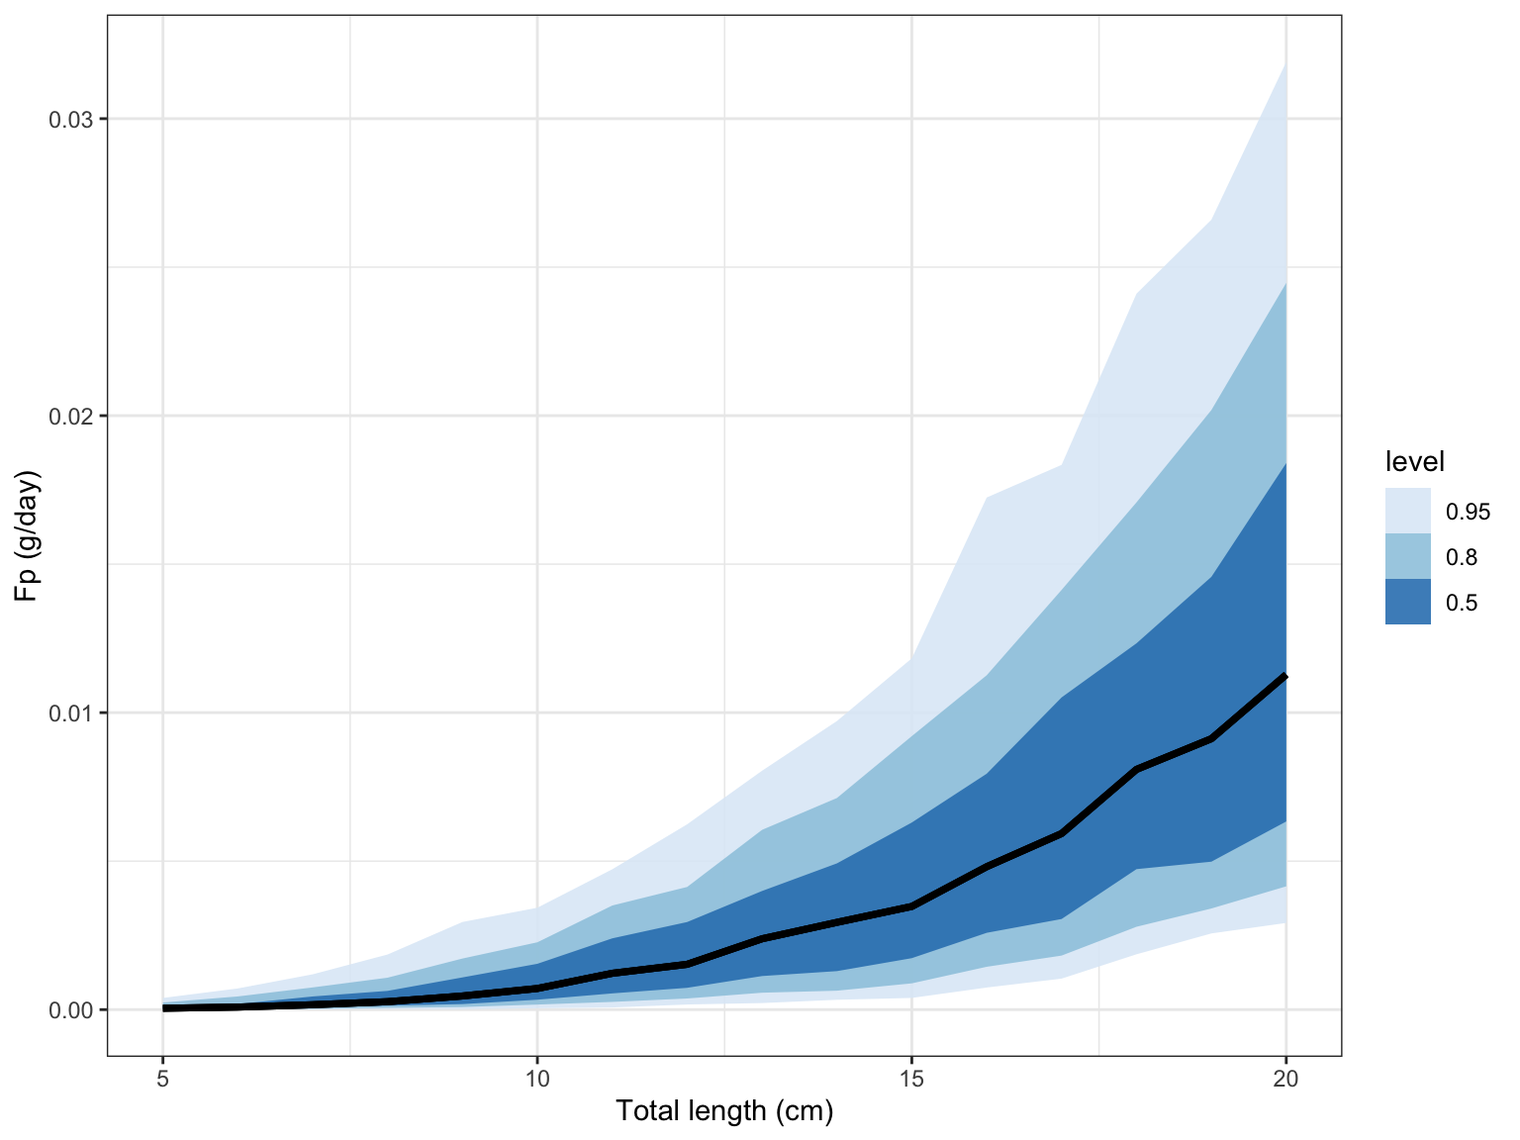
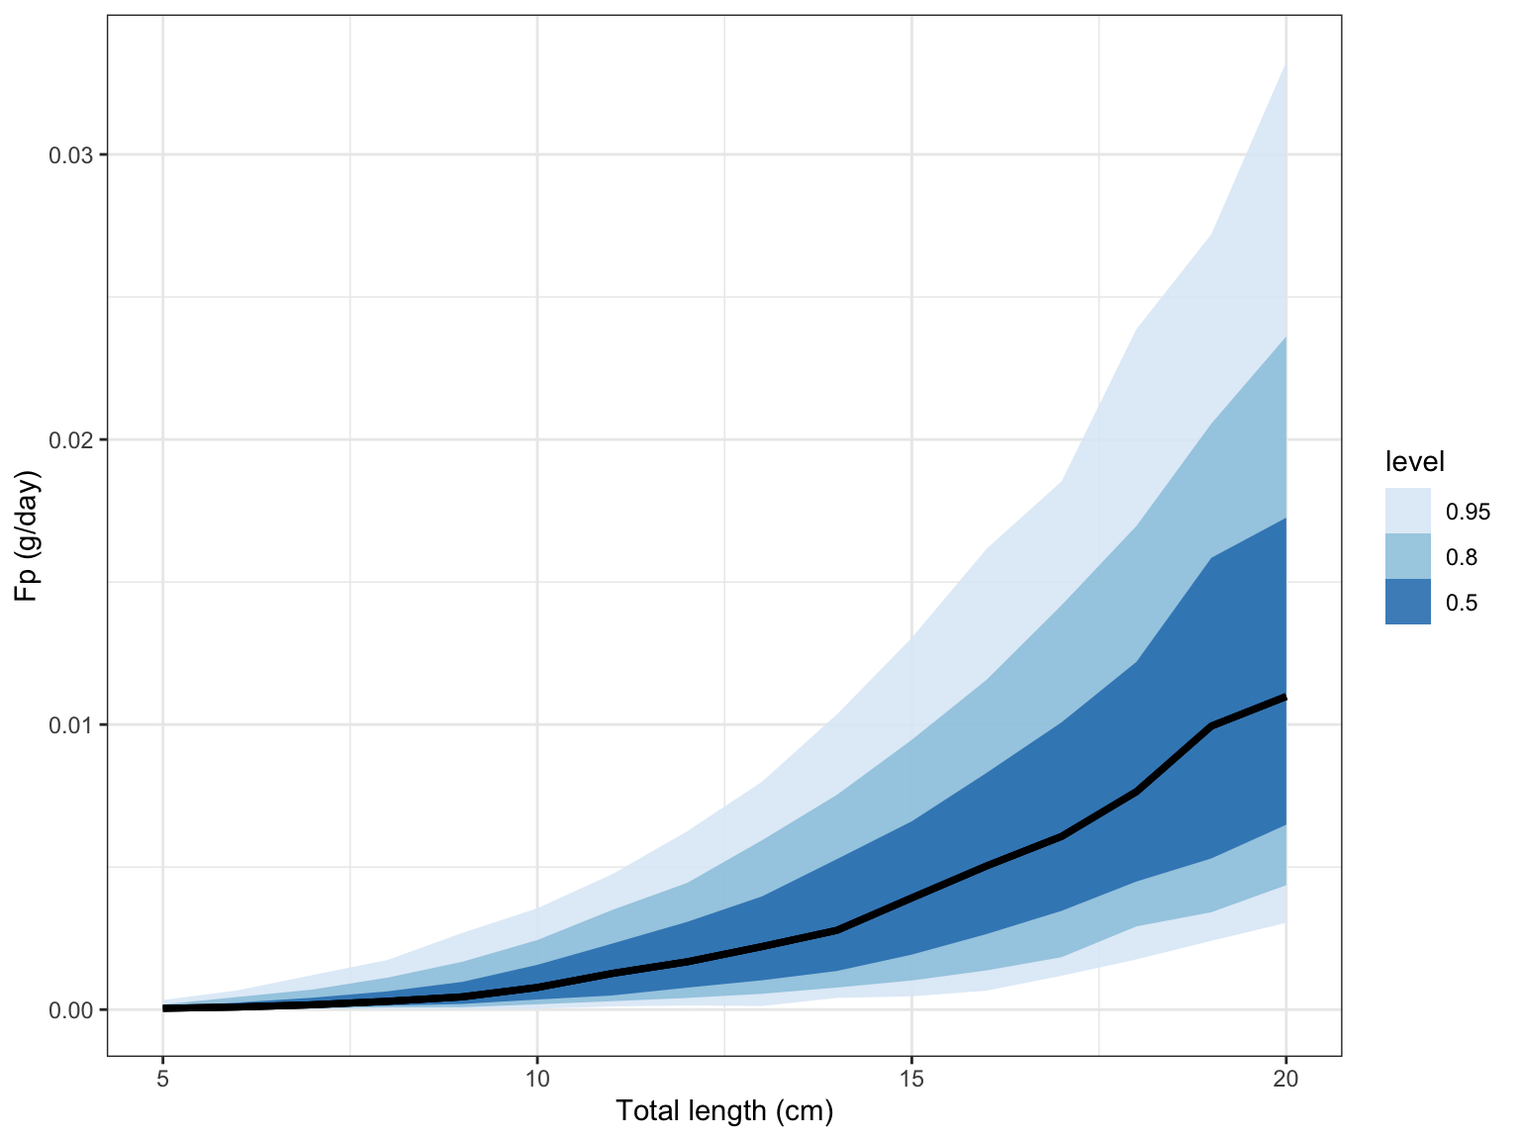
Built site for fishflux: 0.0.1@99f87f8

diff --git a/articles/intro_to_fishflux.html b/articles/intro_to_fishflux.html
@@ -82,7 +82,7 @@
       <h1 data-toc-skip>Intro to fishflux</h1>
                         <h4 class="author">Nina M. D. Schiettekatte</h4>
             
-            <h4 class="date">2020-07-02</h4>
+            <h4 class="date">2020-07-07</h4>
       
       <small class="dont-index">Source: <a href="https://github.com/nschiett/fishflux/blob/master/vignettes/intro_to_fishflux.Rmd"><code>vignettes/intro_to_fishflux.Rmd</code></a></small>
       <div class="hidden name"><code>intro_to_fishflux.Rmd</code></div>
@@ -411,7 +411,7 @@ Elemental stoichiometry of diet
 <span class="co">#&gt;            species    t0 Linf     k     asp troph   lwa_m      lwa_sd lwb_m</span>
 <span class="co">#&gt; 1 Zebrasoma scopas -0.49 13.3 0.425 2.02091     2 0.02455 0.002627551  2.98</span>
 <span class="co">#&gt;      lwb_sd     mdw_m        f0_m        f0_sd alpha_m   alpha_sd</span>
-<span class="co">#&gt; 1 0.0255102 0.2504833 0.001517989 3.125136e-10    0.77 0.05286288</span>
+<span class="co">#&gt; 1 0.0255102 0.2504833 0.001517989 3.154071e-10    0.77 0.05286288</span>
 </pre></div>
 
 <p>All other parameters have to be provided by the user. For more information on how to acquire these parameters, take a look at (“this paper” add reference to methods paper).</p>
@@ -432,56 +432,56 @@ Elemental stoichiometry of diet
 <div class="sourceCode" id="cb10"><pre class="downlit">
 <span class="kw">fishflux</span>::<span class="fu"><a href="../reference/extract.html">extract</a></span>(<span class="kw">model</span>, <span class="fu"><a href="https://rdrr.io/r/base/c.html">c</a></span>(<span class="st">"Fn"</span>,<span class="st">"Fp"</span>))
 <span class="co">#&gt;    TL      Fn_mean    Fn_median        Fn_sd      Fn_2.5%    Fn_97.5%</span>
-<span class="co">#&gt; 1   5 0.0008803941 0.0008154429 0.0004449138 0.0002362938 0.001928104</span>
-<span class="co">#&gt; 2   6 0.0013199704 0.0012335351 0.0006161183 0.0003807115 0.002724463</span>
-<span class="co">#&gt; 3   7 0.0018449423 0.0017370656 0.0008620220 0.0004171794 0.003699469</span>
-<span class="co">#&gt; 4   8 0.0025414743 0.0023323361 0.0012668172 0.0005740153 0.005426086</span>
-<span class="co">#&gt; 5   9 0.0034183196 0.0030698630 0.0018294241 0.0008973018 0.008178266</span>
-<span class="co">#&gt; 6  10 0.0043463276 0.0039813049 0.0022540562 0.0011699606 0.009896119</span>
-<span class="co">#&gt; 7  11 0.0058695383 0.0051739943 0.0032853156 0.0014858725 0.013266104</span>
-<span class="co">#&gt; 8  12 0.0069841276 0.0059486534 0.0039588050 0.0019248775 0.016832595</span>
-<span class="co">#&gt; 9  13 0.0089921307 0.0080339542 0.0053947628 0.0018597769 0.022002220</span>
-<span class="co">#&gt; 10 14 0.0105798396 0.0094173214 0.0065514820 0.0021466710 0.026591551</span>
-<span class="co">#&gt; 11 15 0.0128946048 0.0110721731 0.0083381389 0.0023652903 0.032070108</span>
-<span class="co">#&gt; 12 16 0.0162824299 0.0137465733 0.0108540453 0.0030488685 0.045502998</span>
-<span class="co">#&gt; 13 17 0.0190504388 0.0157888763 0.0123891041 0.0037005976 0.046571205</span>
-<span class="co">#&gt; 14 18 0.0239138094 0.0213167444 0.0149459460 0.0050525772 0.061161562</span>
-<span class="co">#&gt; 15 19 0.0264728723 0.0228481820 0.0168042995 0.0065175528 0.066116386</span>
-<span class="co">#&gt; 16 20 0.0326040309 0.0283285688 0.0201874095 0.0074705744 0.079979137</span>
+<span class="co">#&gt; 1   5 0.0008810507 0.0008383537 0.0004278019 0.0001964941 0.001917992</span>
+<span class="co">#&gt; 2   6 0.0012830364 0.0012060575 0.0006007507 0.0003739856 0.002583910</span>
+<span class="co">#&gt; 3   7 0.0019195307 0.0017754983 0.0009455072 0.0005068949 0.004049307</span>
+<span class="co">#&gt; 4   8 0.0025159032 0.0023862182 0.0011033275 0.0008177114 0.004969519</span>
+<span class="co">#&gt; 5   9 0.0033828648 0.0029596976 0.0017971759 0.0007815859 0.007780094</span>
+<span class="co">#&gt; 6  10 0.0044469703 0.0038992514 0.0023167333 0.0010589923 0.009640365</span>
+<span class="co">#&gt; 7  11 0.0058796912 0.0051814585 0.0032930302 0.0015632901 0.013784768</span>
+<span class="co">#&gt; 8  12 0.0072334715 0.0064432043 0.0040580394 0.0017499253 0.016836748</span>
+<span class="co">#&gt; 9  13 0.0089020571 0.0077231743 0.0055538058 0.0019677109 0.020955451</span>
+<span class="co">#&gt; 10 14 0.0111192651 0.0092248024 0.0074267722 0.0024793380 0.027511072</span>
+<span class="co">#&gt; 11 15 0.0133670092 0.0112297462 0.0085103790 0.0025824426 0.033745016</span>
+<span class="co">#&gt; 12 16 0.0165153624 0.0142665764 0.0105119143 0.0032298921 0.043021130</span>
+<span class="co">#&gt; 13 17 0.0194164821 0.0162234446 0.0126581270 0.0038241187 0.048827372</span>
+<span class="co">#&gt; 14 18 0.0232652509 0.0198614986 0.0143322113 0.0048453197 0.060293636</span>
+<span class="co">#&gt; 15 19 0.0281243134 0.0245160445 0.0176899748 0.0061426427 0.068289658</span>
+<span class="co">#&gt; 16 20 0.0324331383 0.0278599361 0.0205299943 0.0077565170 0.083181167</span>
 <span class="co">#&gt;          Fn_25%      Fn_75%      Fp_mean    Fp_median        Fp_sd      Fp_2.5%</span>
-<span class="co">#&gt; 1  0.0005703071 0.001087641 8.816759e-05 4.555498e-05 0.0001076320 3.607705e-06</span>
-<span class="co">#&gt; 2  0.0008951922 0.001694788 1.604234e-04 8.648046e-05 0.0001873181 6.708040e-06</span>
-<span class="co">#&gt; 3  0.0011915828 0.002327268 3.015256e-04 1.644553e-04 0.0003261997 7.093895e-06</span>
-<span class="co">#&gt; 4  0.0016658811 0.003265114 4.589971e-04 2.676663e-04 0.0004765009 1.657261e-05</span>
-<span class="co">#&gt; 5  0.0022019520 0.004299971 7.363535e-04 4.594471e-04 0.0007827660 1.630872e-05</span>
-<span class="co">#&gt; 6  0.0026895461 0.005546579 1.038646e-03 7.118827e-04 0.0009415668 4.576640e-05</span>
-<span class="co">#&gt; 7  0.0034032246 0.007636513 1.607817e-03 1.223361e-03 0.0013321046 7.122154e-05</span>
-<span class="co">#&gt; 8  0.0039691144 0.009284375 2.008341e-03 1.525568e-03 0.0016381442 1.727074e-04</span>
-<span class="co">#&gt; 9  0.0049625955 0.011610074 2.838324e-03 2.385585e-03 0.0021931244 2.212600e-04</span>
-<span class="co">#&gt; 10 0.0053932653 0.014142962 3.442915e-03 2.938378e-03 0.0026083558 3.312848e-04</span>
-<span class="co">#&gt; 11 0.0065144494 0.017624364 4.387929e-03 3.474148e-03 0.0033195230 3.935601e-04</span>
-<span class="co">#&gt; 12 0.0086559867 0.021021319 5.883353e-03 4.812306e-03 0.0043504422 7.437588e-04</span>
-<span class="co">#&gt; 13 0.0090553655 0.027047194 7.139870e-03 5.928960e-03 0.0049167593 1.044066e-03</span>
-<span class="co">#&gt; 14 0.0126548880 0.031436156 9.252129e-03 8.088130e-03 0.0059312007 1.863013e-03</span>
-<span class="co">#&gt; 15 0.0124745189 0.036329804 1.052843e-02 9.121515e-03 0.0066620971 2.565700e-03</span>
-<span class="co">#&gt; 16 0.0157865317 0.045517637 1.298575e-02 1.128078e-02 0.0080832347 2.919361e-03</span>
+<span class="co">#&gt; 1  0.0005642555 0.001123671 7.172762e-05 4.439146e-05 8.791074e-05 2.668983e-06</span>
+<span class="co">#&gt; 2  0.0008660571 0.001613118 1.727487e-04 9.059586e-05 1.886469e-04 6.857488e-06</span>
+<span class="co">#&gt; 3  0.0012291700 0.002434496 3.001604e-04 1.687363e-04 3.282842e-04 1.295459e-05</span>
+<span class="co">#&gt; 4  0.0016916844 0.003242008 4.616280e-04 2.909458e-04 4.632641e-04 2.016598e-05</span>
+<span class="co">#&gt; 5  0.0021458911 0.004246152 7.175899e-04 4.477097e-04 7.279988e-04 3.097337e-05</span>
+<span class="co">#&gt; 6  0.0027805824 0.005692694 1.086669e-03 7.766051e-04 9.665992e-04 3.313983e-05</span>
+<span class="co">#&gt; 7  0.0032553979 0.007851099 1.606341e-03 1.269072e-03 1.330449e-03 1.106390e-04</span>
+<span class="co">#&gt; 8  0.0042199243 0.009516558 2.113693e-03 1.676374e-03 1.670687e-03 1.433967e-04</span>
+<span class="co">#&gt; 9  0.0045028315 0.011870734 2.776208e-03 2.210849e-03 2.234105e-03 1.240622e-04</span>
+<span class="co">#&gt; 10 0.0056272406 0.015255310 3.668081e-03 2.780774e-03 2.968577e-03 4.100398e-04</span>
+<span class="co">#&gt; 11 0.0069615355 0.018312471 4.652411e-03 3.918250e-03 3.412766e-03 4.634126e-04</span>
+<span class="co">#&gt; 12 0.0080772080 0.022324057 5.971242e-03 5.041457e-03 4.209872e-03 6.650131e-04</span>
+<span class="co">#&gt; 13 0.0096857120 0.026160644 7.270224e-03 6.075065e-03 5.000063e-03 1.187246e-03</span>
+<span class="co">#&gt; 14 0.0120073577 0.031560756 8.984623e-03 7.646183e-03 5.697007e-03 1.759196e-03</span>
+<span class="co">#&gt; 15 0.0133963732 0.040239766 1.117193e-02 9.946258e-03 7.018246e-03 2.412777e-03</span>
+<span class="co">#&gt; 16 0.0163996310 0.043814491 1.291411e-02 1.098425e-02 8.229379e-03 3.044365e-03</span>
 <span class="co">#&gt;        Fp_97.5%       Fp_25%       Fp_75%</span>
-<span class="co">#&gt; 1  0.0003939547 2.219082e-05 0.0001137032</span>
-<span class="co">#&gt; 2  0.0007134503 4.765741e-05 0.0001897745</span>
-<span class="co">#&gt; 3  0.0011896808 7.200698e-05 0.0004434653</span>
-<span class="co">#&gt; 4  0.0018566461 1.330906e-04 0.0006316100</span>
-<span class="co">#&gt; 5  0.0029514489 1.861984e-04 0.0010848551</span>
-<span class="co">#&gt; 6  0.0034314644 3.336262e-04 0.0015432292</span>
-<span class="co">#&gt; 7  0.0047255225 5.464691e-04 0.0024002402</span>
-<span class="co">#&gt; 8  0.0062410931 7.343508e-04 0.0029498554</span>
-<span class="co">#&gt; 9  0.0080437611 1.130614e-03 0.0039947212</span>
-<span class="co">#&gt; 10 0.0097174187 1.296312e-03 0.0049245963</span>
-<span class="co">#&gt; 11 0.0118288275 1.733139e-03 0.0063008664</span>
-<span class="co">#&gt; 12 0.0172436552 2.586976e-03 0.0079439598</span>
-<span class="co">#&gt; 13 0.0183426063 3.051364e-03 0.0105127959</span>
-<span class="co">#&gt; 14 0.0241066634 4.730089e-03 0.0123346075</span>
-<span class="co">#&gt; 15 0.0265980052 4.981385e-03 0.0145723921</span>
-<span class="co">#&gt; 16 0.0319129437 6.335938e-03 0.0184036122</span>
+<span class="co">#&gt; 1  0.0003347439 2.032936e-05 7.728046e-05</span>
+<span class="co">#&gt; 2  0.0006771236 4.739314e-05 2.488869e-04</span>
+<span class="co">#&gt; 3  0.0012126912 7.789320e-05 4.175550e-04</span>
+<span class="co">#&gt; 4  0.0017424751 1.381624e-04 6.407400e-04</span>
+<span class="co">#&gt; 5  0.0026913271 1.983251e-04 9.732491e-04</span>
+<span class="co">#&gt; 6  0.0035546108 3.530646e-04 1.571248e-03</span>
+<span class="co">#&gt; 7  0.0047514446 4.960234e-04 2.315897e-03</span>
+<span class="co">#&gt; 8  0.0062543626 7.698095e-04 3.076864e-03</span>
+<span class="co">#&gt; 9  0.0079969308 1.028399e-03 3.971528e-03</span>
+<span class="co">#&gt; 10 0.0103582725 1.354814e-03 5.278849e-03</span>
+<span class="co">#&gt; 11 0.0130445761 1.929184e-03 6.605897e-03</span>
+<span class="co">#&gt; 12 0.0161715698 2.651520e-03 8.308092e-03</span>
+<span class="co">#&gt; 13 0.0185333467 3.464205e-03 1.007858e-02</span>
+<span class="co">#&gt; 14 0.0238744857 4.493714e-03 1.220061e-02</span>
+<span class="co">#&gt; 15 0.0272030347 5.302815e-03 1.584858e-02</span>
+<span class="co">#&gt; 16 0.0332477288 6.486093e-03 1.725715e-02</span>
 </pre></div>
 
 </div>
@@ -503,46 +503,46 @@ Elemental stoichiometry of diet
 #&gt; 6  10        c    0.000
 #&gt; 7  11        c    0.000
 #&gt; 8  12        c    0.000
-#&gt; 9  13        c    0.000
-#&gt; 10 14        c    0.006
-#&gt; 11 15        c    0.018
-#&gt; 12 16        c    0.038
-#&gt; 13 17        c    0.064
-#&gt; 14 18        c    0.108
-#&gt; 15 19        c    0.192
-#&gt; 16 20        c    0.168
-#&gt; 17  5        n    0.382
-#&gt; 18  6        n    0.404
-#&gt; 19  7        n    0.506
-#&gt; 20  8        n    0.544
-#&gt; 21  9        n    0.612
-#&gt; 22 10        n    0.666
-#&gt; 23 11        n    0.762
-#&gt; 24 12        n    0.744
-#&gt; 25 13        n    0.820
-#&gt; 26 14        n    0.824
-#&gt; 27 15        n    0.842
-#&gt; 28 16        n    0.844
-#&gt; 29 17        n    0.870
-#&gt; 30 18        n    0.858
-#&gt; 31 19        n    0.782
-#&gt; 32 20        n    0.818
-#&gt; 33  5        p    0.618
-#&gt; 34  6        p    0.596
-#&gt; 35  7        p    0.494
-#&gt; 36  8        p    0.456
-#&gt; 37  9        p    0.388
-#&gt; 38 10        p    0.334
-#&gt; 39 11        p    0.238
-#&gt; 40 12        p    0.256
-#&gt; 41 13        p    0.180
-#&gt; 42 14        p    0.170
-#&gt; 43 15        p    0.140
-#&gt; 44 16        p    0.118
-#&gt; 45 17        p    0.066
-#&gt; 46 18        p    0.034
-#&gt; 47 19        p    0.026
-#&gt; 48 20        p    0.014
+#&gt; 9  13        c    0.004
+#&gt; 10 14        c    0.008
+#&gt; 11 15        c    0.020
+#&gt; 12 16        c    0.048
+#&gt; 13 17        c    0.060
+#&gt; 14 18        c    0.138
+#&gt; 15 19        c    0.170
+#&gt; 16 20        c    0.144
+#&gt; 17  5        n    0.294
+#&gt; 18  6        n    0.434
+#&gt; 19  7        n    0.518
+#&gt; 20  8        n    0.574
+#&gt; 21  9        n    0.610
+#&gt; 22 10        n    0.674
+#&gt; 23 11        n    0.742
+#&gt; 24 12        n    0.768
+#&gt; 25 13        n    0.790
+#&gt; 26 14        n    0.840
+#&gt; 27 15        n    0.858
+#&gt; 28 16        n    0.852
+#&gt; 29 17        n    0.860
+#&gt; 30 18        n    0.822
+#&gt; 31 19        n    0.814
+#&gt; 32 20        n    0.834
+#&gt; 33  5        p    0.706
+#&gt; 34  6        p    0.566
+#&gt; 35  7        p    0.482
+#&gt; 36  8        p    0.426
+#&gt; 37  9        p    0.390
+#&gt; 38 10        p    0.326
+#&gt; 39 11        p    0.258
+#&gt; 40 12        p    0.232
+#&gt; 41 13        p    0.206
+#&gt; 42 14        p    0.152
+#&gt; 43 15        p    0.122
+#&gt; 44 16        p    0.100
+#&gt; 45 17        p    0.080
+#&gt; 46 18        p    0.040
+#&gt; 47 19        p    0.016
+#&gt; 48 20        p    0.022
 ## Plot one variable:
 fishflux::plot_cnp(model,  y = "Fp", x = "tl", probs = c(0.5, 0.8, 0.95))</a></code></pre>
 <p><img src="intro_to_fishflux_files/figure-html/unnamed-chunk-9-2.png" width="768"></p>
@@ -562,11 +562,11 @@ fishflux::plot_cnp(model,  y = "Fp", x = "tl", probs = c(0.5, 0.8, 0.95))</a></c
 </pre></div>
 <p><img src="intro_to_fishflux_files/figure-html/unnamed-chunk-10-1.png" width="768"></p>
 <pre><code>#&gt;              Fn_CI        Fp_CI        Ic_CI
-#&gt; Dn_sd 1.994026e-10 0.0002669242 9.533006e-03
-#&gt; Dp_sd 1.887067e-10 0.0007259345 1.969552e-09
-#&gt; Qn_sd 2.058517e-03 0.0008033742 2.869193e-02
-#&gt; Qp_sd 2.011834e-10 0.0007504687 2.066660e-09
-#&gt; k_sd  1.938077e-10 0.0001044015 1.003861e-02</code></pre>
+#&gt; Dn_sd 2.079249e-10 0.0002561611 9.148610e-03
+#&gt; Dp_sd 1.909236e-10 0.0007355940 2.007301e-09
+#&gt; Qn_sd 1.890131e-03 0.0007376584 2.634494e-02
+#&gt; Qp_sd 1.969455e-10 0.0007674562 2.077604e-09
+#&gt; k_sd  2.005135e-10 0.0001123156 1.079958e-02</code></pre>
 
 </div>
 </div>

diff --git a/reference/extract.html b/reference/extract.html
@@ -174,24 +174,24 @@
     <h2 class="hasAnchor" id="examples"><a class="anchor" href="#examples"></a>Examples</h2>
     <pre class="examples"><div class='input'><span class='kw'>model</span> <span class='op'>&lt;-</span> <span class='fu'><a href='https://rdrr.io/pkg/fishflux/man/cnp_model_mcmc.html'>cnp_model_mcmc</a></span>(TL = <span class='fl'>5</span><span class='op'>:</span><span class='fl'>10</span>, param = <span class='fu'><a href='https://rdrr.io/r/base/list.html'>list</a></span>(Qc_m = <span class='fl'>40</span>, Qn_m = <span class='fl'>10</span>, Qp_m = <span class='fl'>4</span>))
 <span class='fu'><a href='https://rdrr.io/pkg/fishflux/man/extract.html'>extract</a></span>(<span class='kw'>model</span>, <span class='fu'><a href='https://rdrr.io/r/base/c.html'>c</a></span>(<span class='st'>"Fn"</span>,<span class='st'>"Fp"</span>))</div><div class='output co'>#&gt;   TL      Fn_mean    Fn_median        Fn_sd      Fn_2.5%     Fn_97.5%
-#&gt; 1  5 0.0006047886 0.0006047886 6.221374e-12 0.0006047886 0.0006047886
-#&gt; 2  6 0.0010610097 0.0010610097 1.033139e-11 0.0010610097 0.0010610097
-#&gt; 3  7 0.0017065393 0.0017065393 1.780783e-11 0.0017065393 0.0017065394
-#&gt; 4  8 0.0025757605 0.0025757605 2.515936e-11 0.0025757604 0.0025757605
-#&gt; 5  9 0.0037034689 0.0037034689 3.764860e-11 0.0037034688 0.0037034690
-#&gt; 6 10 0.0051248251 0.0051248251 5.211551e-11 0.0051248250 0.0051248252
+#&gt; 1  5 0.0006047886 0.0006047886 5.791698e-12 0.0006047886 0.0006047886
+#&gt; 2  6 0.0010610097 0.0010610097 9.745592e-12 0.0010610097 0.0010610097
+#&gt; 3  7 0.0017065393 0.0017065393 1.776432e-11 0.0017065393 0.0017065394
+#&gt; 4  8 0.0025757605 0.0025757605 2.533551e-11 0.0025757604 0.0025757605
+#&gt; 5  9 0.0037034689 0.0037034689 3.697731e-11 0.0037034688 0.0037034690
+#&gt; 6 10 0.0051248251 0.0051248251 5.046471e-11 0.0051248250 0.0051248252
 #&gt;         Fn_25%       Fn_75%      Fp_mean    Fp_median        Fp_sd      Fp_2.5%
-#&gt; 1 0.0006047886 0.0006047886 0.0001097965 0.0001097965 1.810663e-12 0.0001097965
-#&gt; 2 0.0010610097 0.0010610097 0.0002186548 0.0002186548 3.005473e-12 0.0002186548
-#&gt; 3 0.0017065393 0.0017065394 0.0003815567 0.0003815567 5.210992e-12 0.0003815567
-#&gt; 4 0.0025757605 0.0025757605 0.0006096826 0.0006096826 7.341133e-12 0.0006096826
-#&gt; 5 0.0037034689 0.0037034689 0.0009143614 0.0009143614 1.099018e-11 0.0009143614
-#&gt; 6 0.0051248250 0.0051248251 0.0013070515 0.0013070515 1.520202e-11 0.0013070515
+#&gt; 1 0.0006047886 0.0006047886 0.0001097965 0.0001097965 1.687292e-12 0.0001097965
+#&gt; 2 0.0010610097 0.0010610097 0.0002186548 0.0002186548 2.832009e-12 0.0002186548
+#&gt; 3 0.0017065393 0.0017065394 0.0003815567 0.0003815567 5.164180e-12 0.0003815567
+#&gt; 4 0.0025757605 0.0025757605 0.0006096826 0.0006096826 7.384846e-12 0.0006096826
+#&gt; 5 0.0037034689 0.0037034689 0.0009143614 0.0009143614 1.077842e-11 0.0009143614
+#&gt; 6 0.0051248250 0.0051248251 0.0013070515 0.0013070515 1.472806e-11 0.0013070515
 #&gt;       Fp_97.5%       Fp_25%       Fp_75%
 #&gt; 1 0.0001097965 0.0001097965 0.0001097965
 #&gt; 2 0.0002186548 0.0002186548 0.0002186548
 #&gt; 3 0.0003815567 0.0003815567 0.0003815567
-#&gt; 4 0.0006096826 0.0006096826 0.0006096826
+#&gt; 4 0.0006096827 0.0006096826 0.0006096826
 #&gt; 5 0.0009143614 0.0009143614 0.0009143614
 #&gt; 6 0.0013070515 0.0013070515 0.0013070515</div><div class='input'></div></pre>
   </div>

diff --git a/reference/sensitivity.html b/reference/sensitivity.html
@@ -176,9 +176,9 @@ Plots a heatplot with width of the 95<!-- %CI of output predictions. --></p>
     <pre class="examples"><div class='input'><span class='fu'><a href='https://rdrr.io/r/base/library.html'>library</a></span>(<span class='kw'><a href='https://nschiett.github.io/fishflux'>fishflux</a></span>)
 <span class='fu'><a href='https://rdrr.io/pkg/fishflux/man/sensitivity.html'>sensitivity</a></span>(TL = <span class='fl'>10</span>, param = <span class='fu'><a href='https://rdrr.io/r/base/list.html'>list</a></span>(k_sd = <span class='fl'>0.2</span>, Dn_sd = <span class='fl'>0.2</span>, Dc_sd = <span class='fl'>0.1</span>),
             par = <span class='fu'><a href='https://rdrr.io/r/base/c.html'>c</a></span>(<span class='st'>"k_sd"</span>,<span class='st'>"Dn_sd"</span>,<span class='st'>"Dc_sd"</span>), out = <span class='fu'><a href='https://rdrr.io/r/base/c.html'>c</a></span>(<span class='st'>"Ic"</span>, <span class='st'>"In"</span>, <span class='st'>"Ip"</span>, <span class='st'>"Gc"</span>))</div><div class='output co'>#&gt; <span class='message'>Joining, by = "key"</span></div><div class='img'><img src='sensitivity-1.png' alt='' width='700' height='433' /></div><div class='output co'>#&gt;            Ic_CI        In_CI        Ip_CI        Gc_CI
-#&gt; k_sd  0.03314402 3.977282e-03 1.325761e-03 1.272730e-02
-#&gt; Dn_sd 0.24067510 3.702395e-03 9.627004e-03 7.724544e-11
-#&gt; Dc_sd 0.01058882 2.577122e-10 8.599604e-11 6.945887e-11</div><div class='input'></div></pre>
+#&gt; k_sd  0.03160527 3.792632e-03 1.264211e-03 1.213642e-02
+#&gt; Dn_sd 0.24960071 4.850845e-03 9.984028e-03 7.496267e-11
+#&gt; Dc_sd 0.01187394 2.484316e-10 8.299491e-11 7.320712e-11</div><div class='input'></div></pre>
   </div>
   <div class="col-md-3 hidden-xs hidden-sm" id="pkgdown-sidebar">
     <nav id="toc" data-toggle="toc" class="sticky-top">

diff --git a/reference/limitation.html b/reference/limitation.html
@@ -172,8 +172,8 @@
 #&gt; Chain 1: Iteration: 1000 / 1000 [100%]  (Sampling)
 #&gt; Chain 1: 
 #&gt; Chain 1:  Elapsed Time: 0 seconds (Warm-up)
-#&gt; Chain 1:                0.013841 seconds (Sampling)
-#&gt; Chain 1:                0.013841 seconds (Total)
+#&gt; Chain 1:                0.013811 seconds (Sampling)
+#&gt; Chain 1:                0.013811 seconds (Total)
 #&gt; Chain 1: </div><div class='input'><span class='fu'><a href='https://rdrr.io/pkg/fishflux/man/limitation.html'>limitation</a></span>(<span class='kw'>mod</span>)</div><div class='output co'>#&gt; <span class='message'>geom_path: Each group consists of only one observation. Do you need to adjust</span>
 #&gt; <span class='message'>the group aesthetic?</span></div><div class='img'><img src='limitation-1.png' alt='' width='700' height='433' /></div><div class='output co'>#&gt;   tl nutrient prop_lim
 #&gt; 1  5        c    0.000

diff --git a/reference/metabolism.html b/reference/metabolism.html
@@ -186,8 +186,8 @@ which also includes trophic level as a covariate.</p>
 #&gt; Chain 1: Iteration: 1000 / 1000 [100%]  (Sampling)
 #&gt; Chain 1: 
 #&gt; Chain 1:  Elapsed Time: 0 seconds (Warm-up)
-#&gt; Chain 1:                0.001583 seconds (Sampling)
-#&gt; Chain 1:                0.001583 seconds (Total)
+#&gt; Chain 1:                0.001387 seconds (Sampling)
+#&gt; Chain 1:                0.001387 seconds (Total)
 #&gt; Chain 1: </div><div class='output co'>#&gt;          f0_m       f0_sd   alpha_m  alpha_sd        b0_m        b0_sd
 #&gt; 1 0.004528457 0.002004058 0.4256931 0.1035894 0.001415727 0.0006612888</div><div class='input'></div></pre>
   </div>

diff --git a/reference/model_parameters.html b/reference/model_parameters.html
@@ -178,8 +178,8 @@
 #&gt; Chain 1: Iteration: 1000 / 1000 [100%]  (Sampling)
 #&gt; Chain 1: 
 #&gt; Chain 1:  Elapsed Time: 0 seconds (Warm-up)
-#&gt; Chain 1:                0.001443 seconds (Sampling)
-#&gt; Chain 1:                0.001443 seconds (Total)
+#&gt; Chain 1:                0.0015 seconds (Sampling)
+#&gt; Chain 1:                0.0015 seconds (Total)
 #&gt; Chain 1: </div><div class='output co'>#&gt;            species      t0  Linf     k     asp troph   lwa_m      lwa_sd lwb_m
 #&gt; 1 Scarus psittacus -0.6025 23.05 0.814 1.80877     2 0.01585 0.001760204  3.06
 #&gt;       lwb_sd     mdw_m        f0_m        f0_sd alpha_m   alpha_sd

diff --git a/reference/cnp_model_mcmc.html b/reference/cnp_model_mcmc.html
@@ -213,8 +213,8 @@ Qc_m = <span class='fl'>40</span>, Qn_m = <span class='fl'>10</span>, Qp_m = <sp
 #&gt; Chain 1: Iteration: 1000 / 1000 [100%]  (Sampling)
 #&gt; Chain 1: 
 #&gt; Chain 1:  Elapsed Time: 0 seconds (Warm-up)
-#&gt; Chain 1:                0.014079 seconds (Sampling)
-#&gt; Chain 1:                0.014079 seconds (Total)
+#&gt; Chain 1:                0.013314 seconds (Sampling)
+#&gt; Chain 1:                0.013314 seconds (Total)
 #&gt; Chain 1: </div><div class='input'></div></pre>
   </div>
   <div class="col-md-3 hidden-xs hidden-sm" id="pkgdown-sidebar">

diff --git a/index.html b/index.html
@@ -155,6 +155,8 @@
     <div class="links">
 <h2>Links</h2>
 <ul class="list-unstyled">
+<li>Download from CRAN at <br><a href="https://cloud.r-project.org/package=fishflux">https://cloud.r-project.org/package=fishflux</a>
+</li>
 <li>Browse source code at <br><a href="https://github.com/nschiett/fishflux/">https://github.com/nschiett/fishflux/</a>
 </li>
 <li>Report a bug at <br><a href="https://github.com/nschiett/fishflux/issues">https://github.com/nschiett/fishflux/issues</a>
